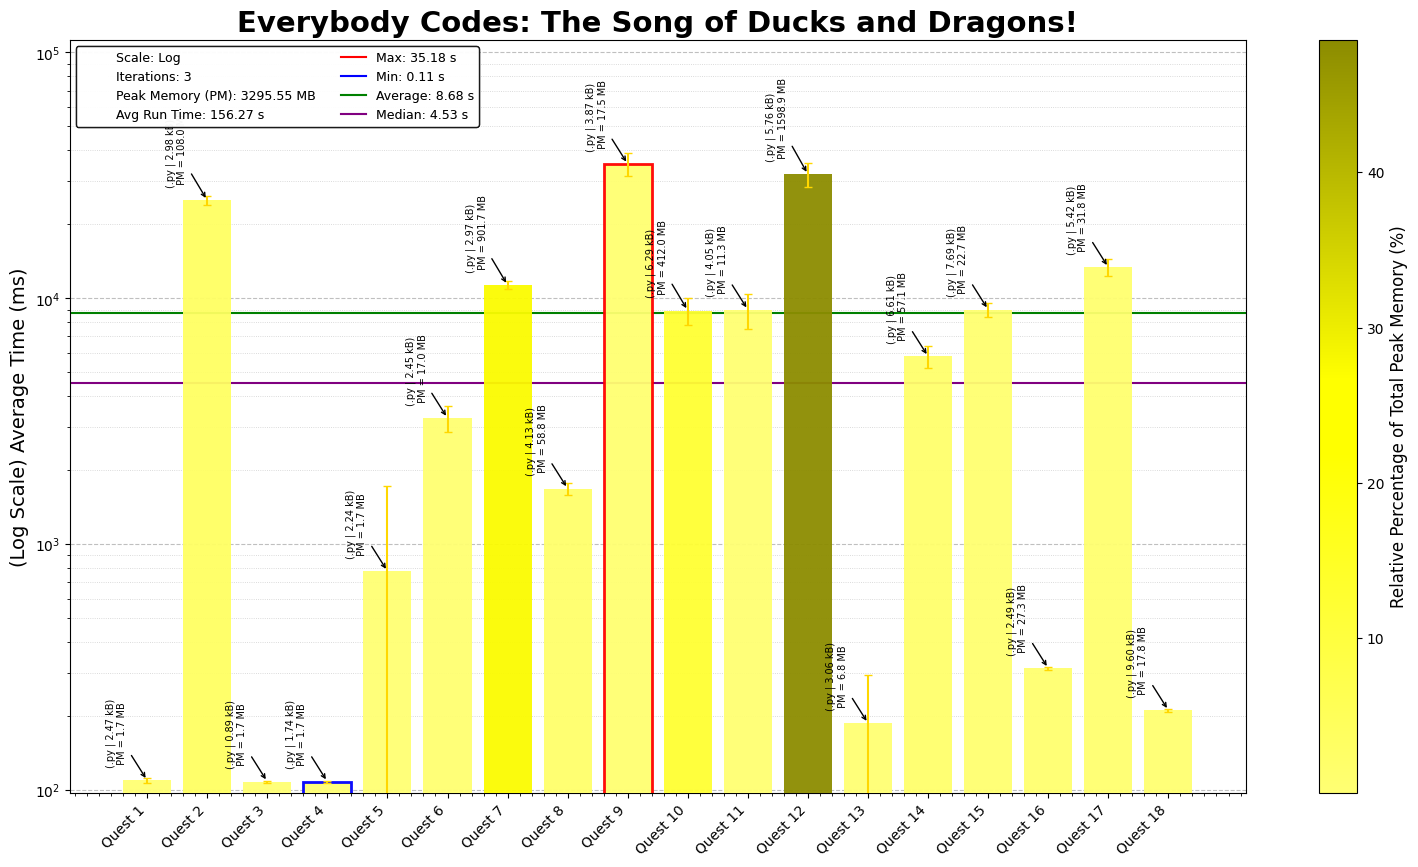
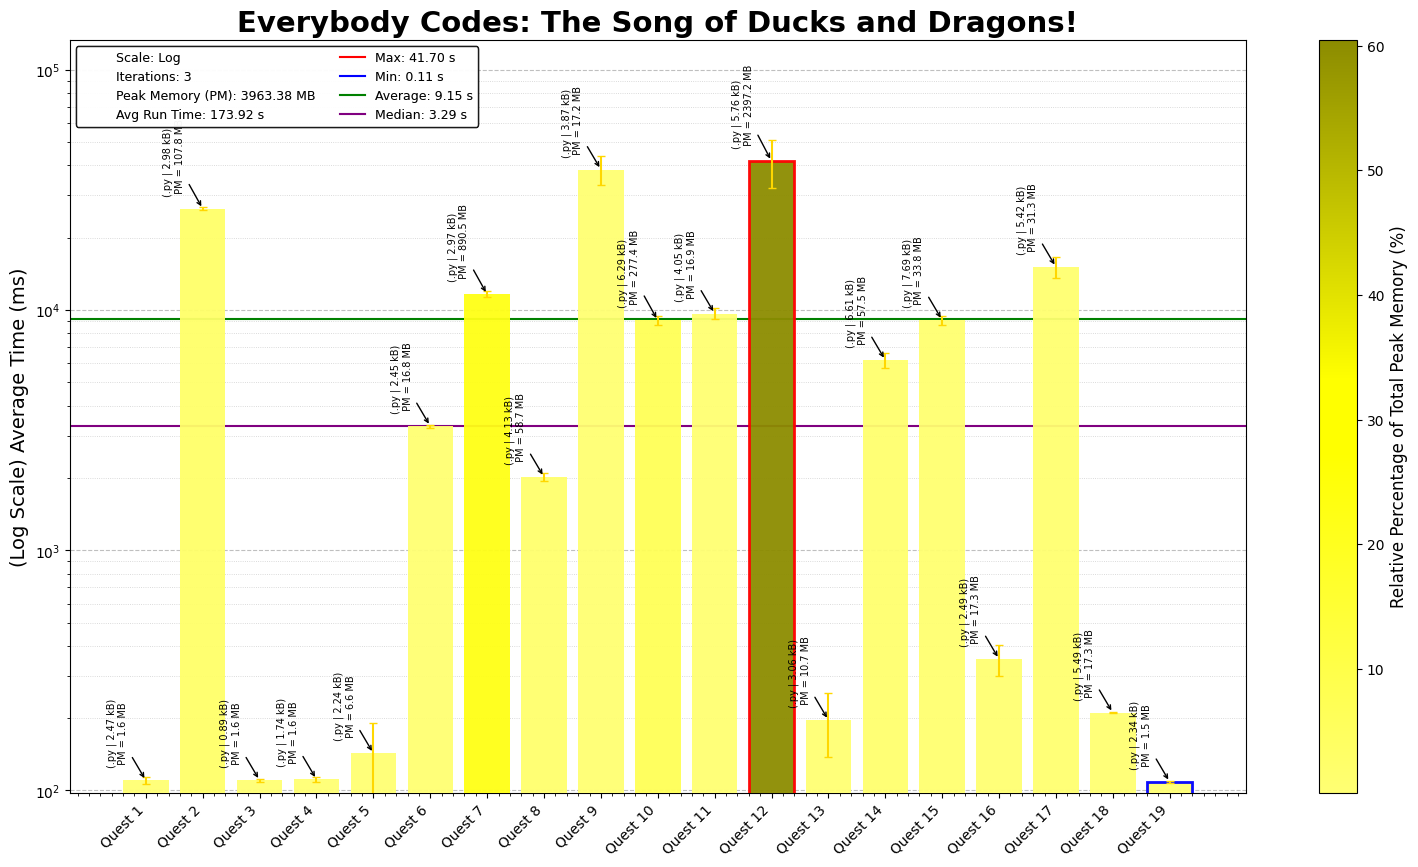
EC 2025 Quest 19: Flappy Quack

diff --git a/2025/18/2025Day18.py b/2025/18/2025Day18.py
@@ -28,115 +28,6 @@ class Plants:
         def find_nums(text):
             return list(map(int, re.findall(r'-?\d+', text)))
 
-        root_network = defaultdict(dict)
-        self.test_cases = []
-        current_plant = 0
-        for row_data in input_data:
-            if row_data.startswith("Plant "):
-                plant_no, thickness = find_nums(row_data)
-                current_plant = plant_no
-                root_network[plant_no] = {"inner": thickness}
-            elif row_data.startswith("- free"):
-                thickness, = find_nums(row_data)
-                root_network[current_plant]["free"] = thickness
-            elif row_data.startswith("- branch"):
-                branch_to, thickness, = find_nums(row_data)
-                root_network[current_plant][branch_to] = thickness
-            elif row_data.startswith("0") or row_data.startswith("1"):
-                self.test_cases.append(find_nums(row_data))
-        self.root_network = root_network
-
-    def calculate_brightness(self, test_network = None):
-        energy_dict = defaultdict(int)
-        if not test_network:
-            test_network = self.root_network.copy()
-        all_plants = list(test_network.keys())
-        for plant in all_plants:
-            plant_root = test_network[plant]
-            if "free" in plant_root.keys():
-                inner, free = (plant_root["inner"], plant_root["free"])
-                if inner == free:
-                    energy_dict[plant] = inner * free
-            else:
-                total_energy = 0
-                for branch, thickness in plant_root.items():
-                    if branch == "inner":
-                        continue
-                    branch_energy = energy_dict[branch]
-                    total_energy += (thickness * branch_energy)
-                    # print(branch, thickness, branch_energy, total_energy)
-                if total_energy < plant_root["inner"]:
-                    total_energy = 0
-                energy_dict[plant] = total_energy
-        # print(energy_dict)
-        return energy_dict
-
-    def run_case_studies(self):
-        results = {}
-        og_network = deepcopy(self.root_network)
-        for study_no, study in enumerate(self.test_cases):
-            test_network = og_network.copy()
-            for plant, change in enumerate(study, 1):
-                test_network[plant]["free"] = change
-            study_results = self.calculate_brightness(test_network)
-            # print(study_no, study_results)
-            results[study_no] = study_results[len(study_results)]
-        return results
-
-    def maximise_energy(self):
-        case_studies = self.run_case_studies()
-        max_base_study = max(case_studies.items(), key=lambda x: x[1])
-        print(self.root_network)
-        test_study = deepcopy(self.root_network)
-        # print(max_base_study)
-        # print(case_studies)
-        best = [0] * len(self.test_cases[0])
-
-        # for branches in test_study.values():
-        #     for source, thickness in branches:
-        #         if thickness > 0 and source <= 81:
-        #             best[source - 1] = 1
-
-        # optimal = calculate(best)
-
-        # total = 0
-
-        # for test in self.test_cases:
-        #     score = calculate()
-        #     if score > 0:
-        #         total += optimal - score
-        
-        return case_studies
-"""Everybody Codes - Quest 18, Year 2025
-Solution Started: November 26, 2025
-Puzzle Link: https://everybody.codes/event/2025/quests/18
-Solution by: Abbas Moosajee
-Brief: [When Roots Remember]"""
-
-#!/usr/bin/env python3
-from pathlib import Path
-from collections import defaultdict, deque
-from copy import deepcopy
-import time, re
-start_time = time.time()
-
-# List of input file names
-input_files = ["Day18_input_p1.txt", "Day18_input_p2.txt", "Day18_input_p3.txt"]
-
-# Read and split the input data into individual lists
-input_data_p1, input_data_p2, input_data_p3 = [
-    open(Path(__file__).parent / file).read().strip().split('\n')
-    for file in input_files
-]
-
-class Plants:
-    def __init__(self, plant_data):
-        self.parse_data(plant_data)
-
-    def parse_data(self, input_data):
-        def find_nums(text):
-            return list(map(int, re.findall(r'-?\d+', text)))
-
         self.root_network = defaultdict(dict)
         self.controllable_plants = []
         self.test_cases = []
@@ -238,4 +129,4 @@ plants_p3 = Plants(input_data_p3)
 case_studies_p3 = plants_p3.maximise_energy()
 print("Quest 18, P3:", sum(case_studies_p3.values()))
 
-print(f"Execution Time: {time.time() - start_time:5f}s")
+# print(f"Execution Time: {time.time() - start_time:5f}s")

diff --git a/2025/19/2025Day19.py b/2025/19/2025Day19.py
@@ -1,0 +1,78 @@
+"""Everybody Codes - Quest 19, Year 2025
+Solution Started: November 27, 2025
+Puzzle Link: https://everybody.codes/event/2025/quests/19
+Solution by: Abbas Moosajee
+Brief: [Flappy Quack]"""
+
+#!/usr/bin/env python3
+from pathlib import Path
+from collections import defaultdict, deque
+import time, math
+start_time = time.time()
+
+# List of input file names
+input_files = ["Day19_input_p1.txt", "Day19_input_p2.txt", "Day19_input_p3.txt"]
+
+# Read and split the input data into individual lists
+input_data_p1, input_data_p2, input_data_p3 = [
+    open(Path(__file__).parent / file).read().strip().split('\n')
+    for file in input_files
+]
+
+class GoldenTemple:
+    def __init__(self, segment_data):
+        segments = [tuple(map(int, row.split(","))) for row in segment_data]
+        self.temple_map = self.build_temple(segments)
+
+    def build_temple(self, blueprints):
+        map_dict = defaultdict(list)
+        for col, start, size in blueprints:
+            map_dict[col].append((start, start + size - 1))
+        return map_dict
+
+    def count_flaps(self, y, dx, min_gap, max_gap):
+        needed = (min_gap - y + dx) / 2
+        flaps = max(0, math.ceil(needed))
+        new_y = y + 2*flaps - dx
+        if new_y > max_gap:
+            return None
+        return flaps, new_y
+
+    def play_game(self):
+        total_flaps = 0
+        x, y = 0, 0
+
+        for col in sorted(self.temple_map.keys()):
+            dx = col - x
+
+            best_flaps = float("inf")
+            best_new_y = None
+
+            for (min_gap, max_gap) in self.temple_map[col]:
+                res = self.count_flaps(y, dx, min_gap, max_gap)
+                if res is None:
+                    continue
+                flaps, new_y = res
+                if flaps < best_flaps:
+                    best_flaps = flaps
+                    best_new_y = new_y
+
+            total_flaps += best_flaps
+            y = best_new_y
+            x = col
+
+        return total_flaps
+
+temple_p1 = GoldenTemple(input_data_p1)
+flaps_p1 = temple_p1.play_game()
+print("Quest 19, P1:", flaps_p1)
+
+temple_p2 = GoldenTemple(input_data_p2)
+flaps_p2 = temple_p2.play_game()
+print("Quest 19, P2:", flaps_p2)
+
+temple_p3 = GoldenTemple(input_data_p3)
+flaps_p3 = temple_p3.play_game()
+print("Quest 19, P3:", flaps_p3)
+
+print(f"Execution Time: {time.time() - start_time:5f}s")

diff --git a/2025/README_2025.md b/2025/README_2025.md
@@ -24,3 +24,4 @@ This repository contains coding solutions for the 2025 Everybody Codes. Each day
 16. **Day 16 - Harmonics of Stone**: Building blocks and charm spells fairly simple in the end, even if it took a couple tries.
 17. **Day 17 - Deadline-Driven Development**: Simple P1 and P2 for checking an validating cell positions, used to identify best time to build bridge for a changing grid.
 18. **Day 18 - When Roots Remember**: Networks and dicts are fun, but in the end fairly easy problem to follow and solve even if it took a while to solve and made you hungry
+19. **Day 19 - Flappy Quack**: Who knew Flappy Bird could be made into a coding puzzle.
